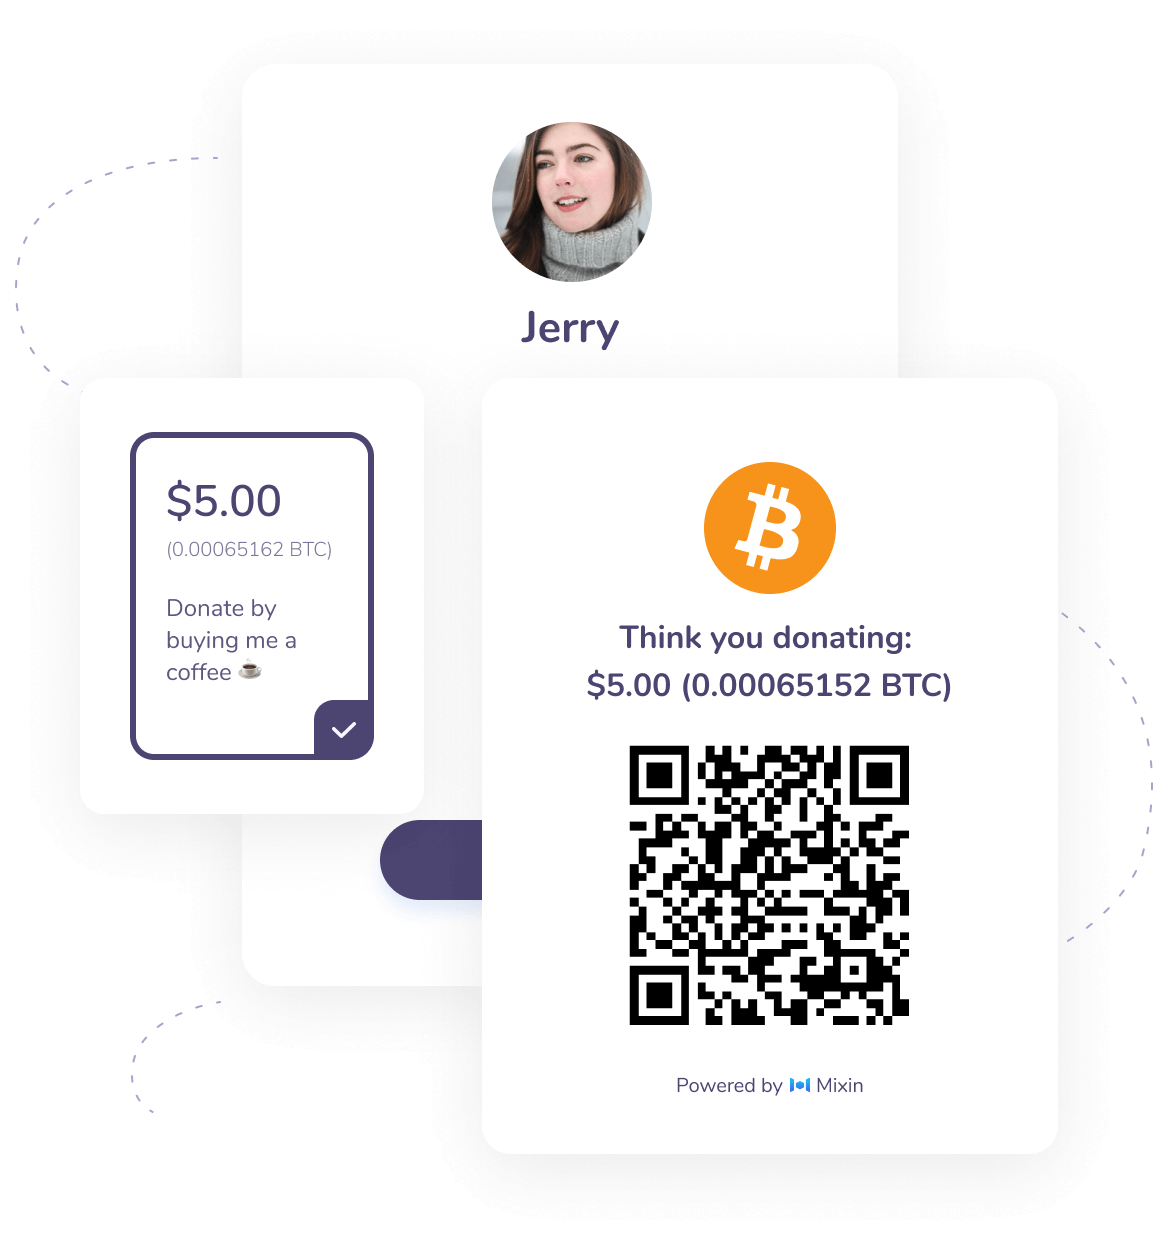
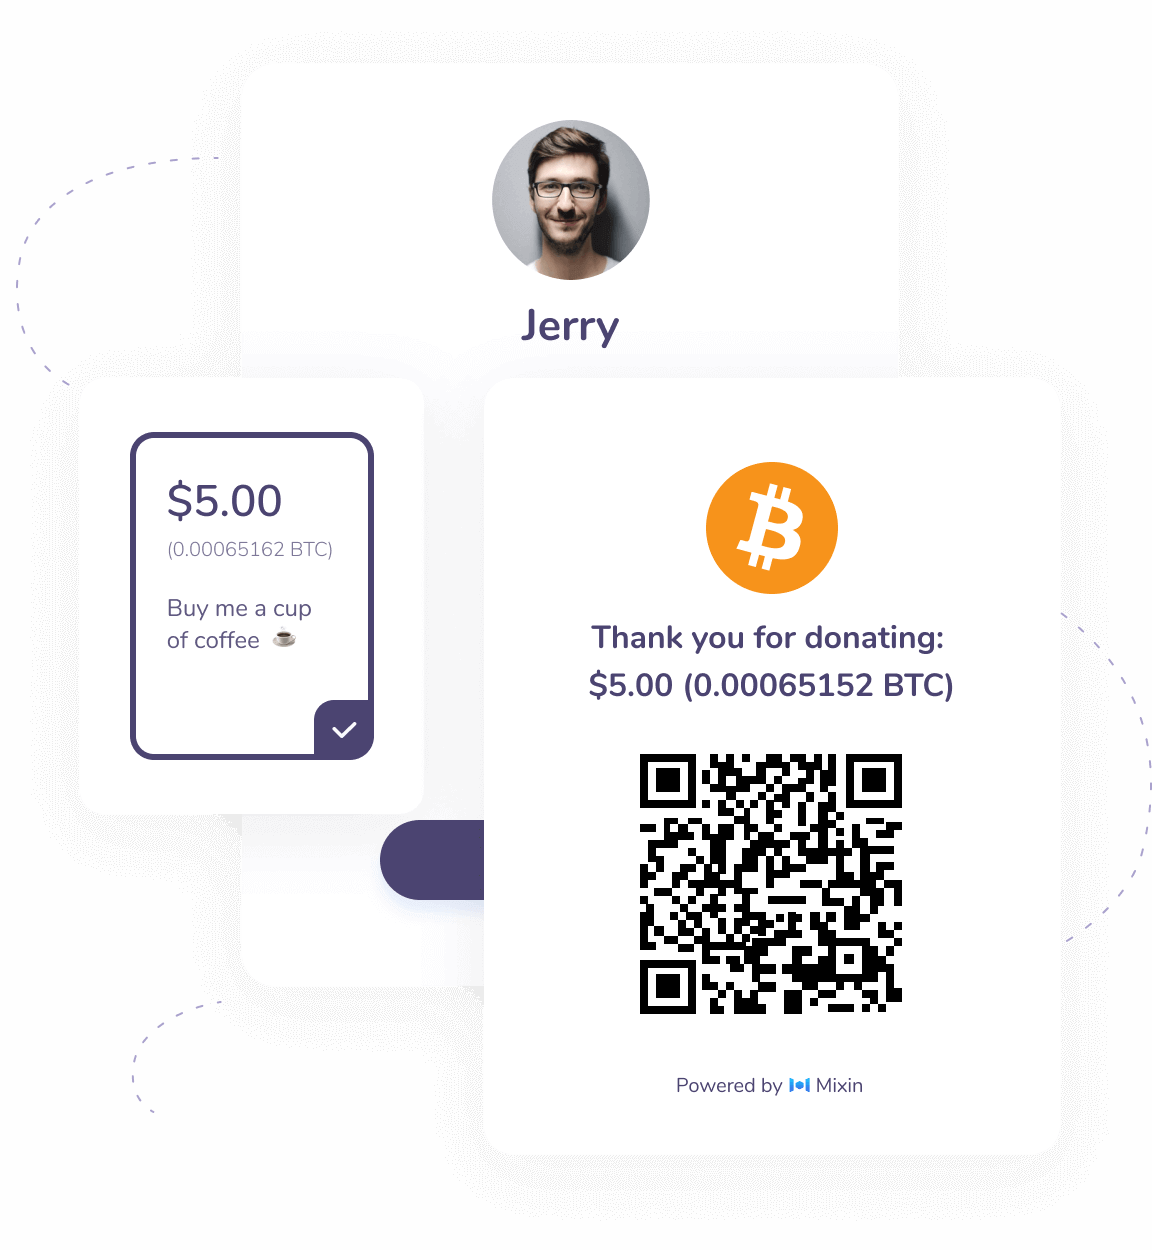
font / donate desc / style optimized

diff --git a/tools/const.js b/tools/const.js
@@ -31,16 +31,16 @@ module.exports.ASSET_EXTRA_DATE = [
 ]
 
 module.exports.CURRENCY = {
-  USD: { symbol: "$", message: ["Donate", "Thank you donating", "Pay in Mixin Messenger"] },
-  CNY: { symbol: "¥", message: ["捐赠", "谢谢捐赠", "在 Mixin Messenger 中付款"] },
+  USD: { symbol: "$", message: ["Donate", "Thank you for donating", "Pay in Mixin Messenger"] },
+  CNY: { symbol: "¥", message: ["捐赠", "谢谢你的捐款", "在 Mixin Messenger 中付款"] },
   JPY: { symbol: "¥", message: ["寄付", "寄付してくれてありがとう", "Mixin Messengerで支払う"] },
-  HKD: { symbol: "HK$", message: ["捐贈", "謝謝捐贈", "在 Mixin Messenger 中付款"] },
+  HKD: { symbol: "HK$", message: ["捐贈", "謝謝你的捐款", "在 Mixin Messenger 中付款"] },
   KRW: { symbol: "₩", message: ["기부", "기부 해 주셔서 감사합니다"] },
-  AUD: { symbol: "A$", message: ["Donate", "Thank you donating", "Pay in Mixin Messenger"] },
-  EUR: { symbol: "€", message: ["Donate", "Thank you donating", "Pay in Mixin Messenger"] },
-  GBP: { symbol: "£", message: ["Donate", "Thank you donating", "Pay in Mixin Messenger"] },
-  SGD: { symbol: "S$", message: ["Donate", "Thank you donating", "Pay in Mixin Messenger"] },
-  MYR: { symbol: "RM", message: ["Donate", "Thank you donating", "Pay in Mixin Messenger"] },
+  AUD: { symbol: "A$", message: ["Donate", "Thank you for donating", "Pay in Mixin Messenger"] },
+  EUR: { symbol: "€", message: ["Donate", "Thank you for donating", "Pay in Mixin Messenger"] },
+  GBP: { symbol: "£", message: ["Donate", "Thank you for donating", "Pay in Mixin Messenger"] },
+  SGD: { symbol: "S$", message: ["Donate", "Thank you for donating", "Pay in Mixin Messenger"] },
+  MYR: { symbol: "RM", message: ["Donate", "Thank you for donating", "Pay in Mixin Messenger"] },
 }
 
 module.exports.DEFAULT_VIEW_URL = 'https://donate.cafe/donate.svg'

diff --git a/web/public/donate.css b/web/public/donate.css
@@ -1,16 +1,16 @@
 @font-face {
   font-family: 'Nunito';
-  src: url('https://donate.cafe/fonts/Nunito-Regular.1aaa8fb5.ttf') format('truetype'),
-    url('https://donate.cafe/fonts/Nunito-Regular.91150e57.woff') format('woff'),
-    url('https://donate.cafe/fonts/Nunito-Regular.b0256025.woff2') format('woff2');
+  src: url('https://donate.cafe/fonts/Nunito-Regular.1338ae88.ttf') format('truetype'),
+    url('https://donate.cafe/fonts/Nunito-Regular.ddf1833c.woff') format('woff'),
+    url('https://donate.cafe/fonts/Nunito-Regular.297d50ee.woff2') format('woff2');
   font-weight: 400;
 }
 
 @font-face {
   font-family: 'Nunito';
-  src: url('https://donate.cafe/fonts/Nunito-SemiBold.530c2470.ttf') format('truetype'),
-    url('https://donate.cafe/fonts/Nunito-SemiBold.ecf303be.woff') format('woff'),
-    url('https://donate.cafe/fonts/Nunito-SemiBold.46cd47bb.woff2') format('woff2');
+  src: url('https://donate.cafe/fonts/Nunito-SemiBold.b34a3b79.ttf') format('truetype'),
+    url('https://donate.cafe/fonts/Nunito-SemiBold.4ac18e63.woff') format('woff'),
+    url('https://donate.cafe/fonts/Nunito-SemiBold.fd477437.woff2') format('woff2');
   font-weight: 600;
 }
 

diff --git a/web/src/components/Footer.vue b/web/src/components/Footer.vue
@@ -5,7 +5,7 @@
         <a target="_blank" href="https://twitter.com/donatecafe">Twitter</a>
       </li>
       <li>
-        <a target="_blank" href="https://github.com/MixinNetwork/donation-button">Github</a>
+        <a target="_blank" href="https://github.com/MixinNetwork/donate.cafe">Github</a>
       </li>
       <li>
         <a @click="$emit('show_faq')" href="javascript:void(0)">{{$t('home.faq')}}</a>

diff --git a/web/src/components/Donate/Step1.vue b/web/src/components/Donate/Step1.vue
@@ -114,7 +114,7 @@ h4 {
   justify-content: center;
   margin-top: 28px;
   padding: 0;
-  overflow: auto;
+  overflow: hidden;
 
   &::-webkit-scrollbar {
     display: none;
@@ -212,6 +212,7 @@ p {
 @media screen and (max-width: 480px) {
   .amount-select-list {
     justify-content: flex-start;
+    overflow: auto;
   }
   li {
     min-width: 100px;
